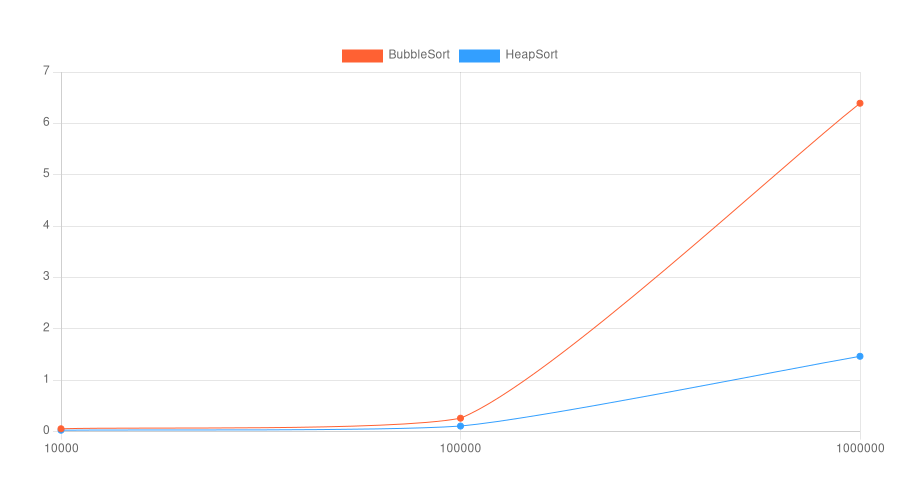
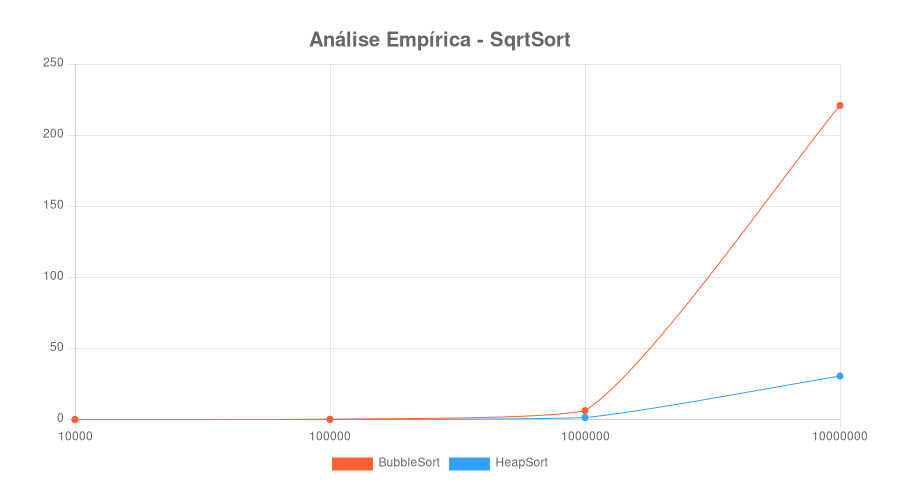
Update chart layout

diff --git a/chart.js b/chart.js
@@ -47,7 +47,23 @@ function generate(tamanhos, data) {
                 }
             },
             layout: {
-                padding: 40
+                padding: {
+                    left: 40,
+                    right: 60,
+                    top: 20,
+                    bottom: 20
+                }
+            },
+            plugins: {
+                title: {
+                    display: true,
+                    text: 'Análise Empírica - SqrtSort',
+                    font: { size: 20, weight: 'bold' }
+                },
+                legend: {
+                    display: true,
+                    position: "bottom"
+                }
             }
         }
     }

diff --git a/index.js b/index.js
@@ -4,7 +4,7 @@ const chart = require("./chart");
 
 
 //EXECUÇÃO
-let tamanhosTeste = [10000, 100000, 1000000];
+let tamanhosTeste = [10000, 100000, 1000000, 10000000];
 let qntRepeticoes = 1;
 
 console.log("\n--- BUBBLE ---\n");
